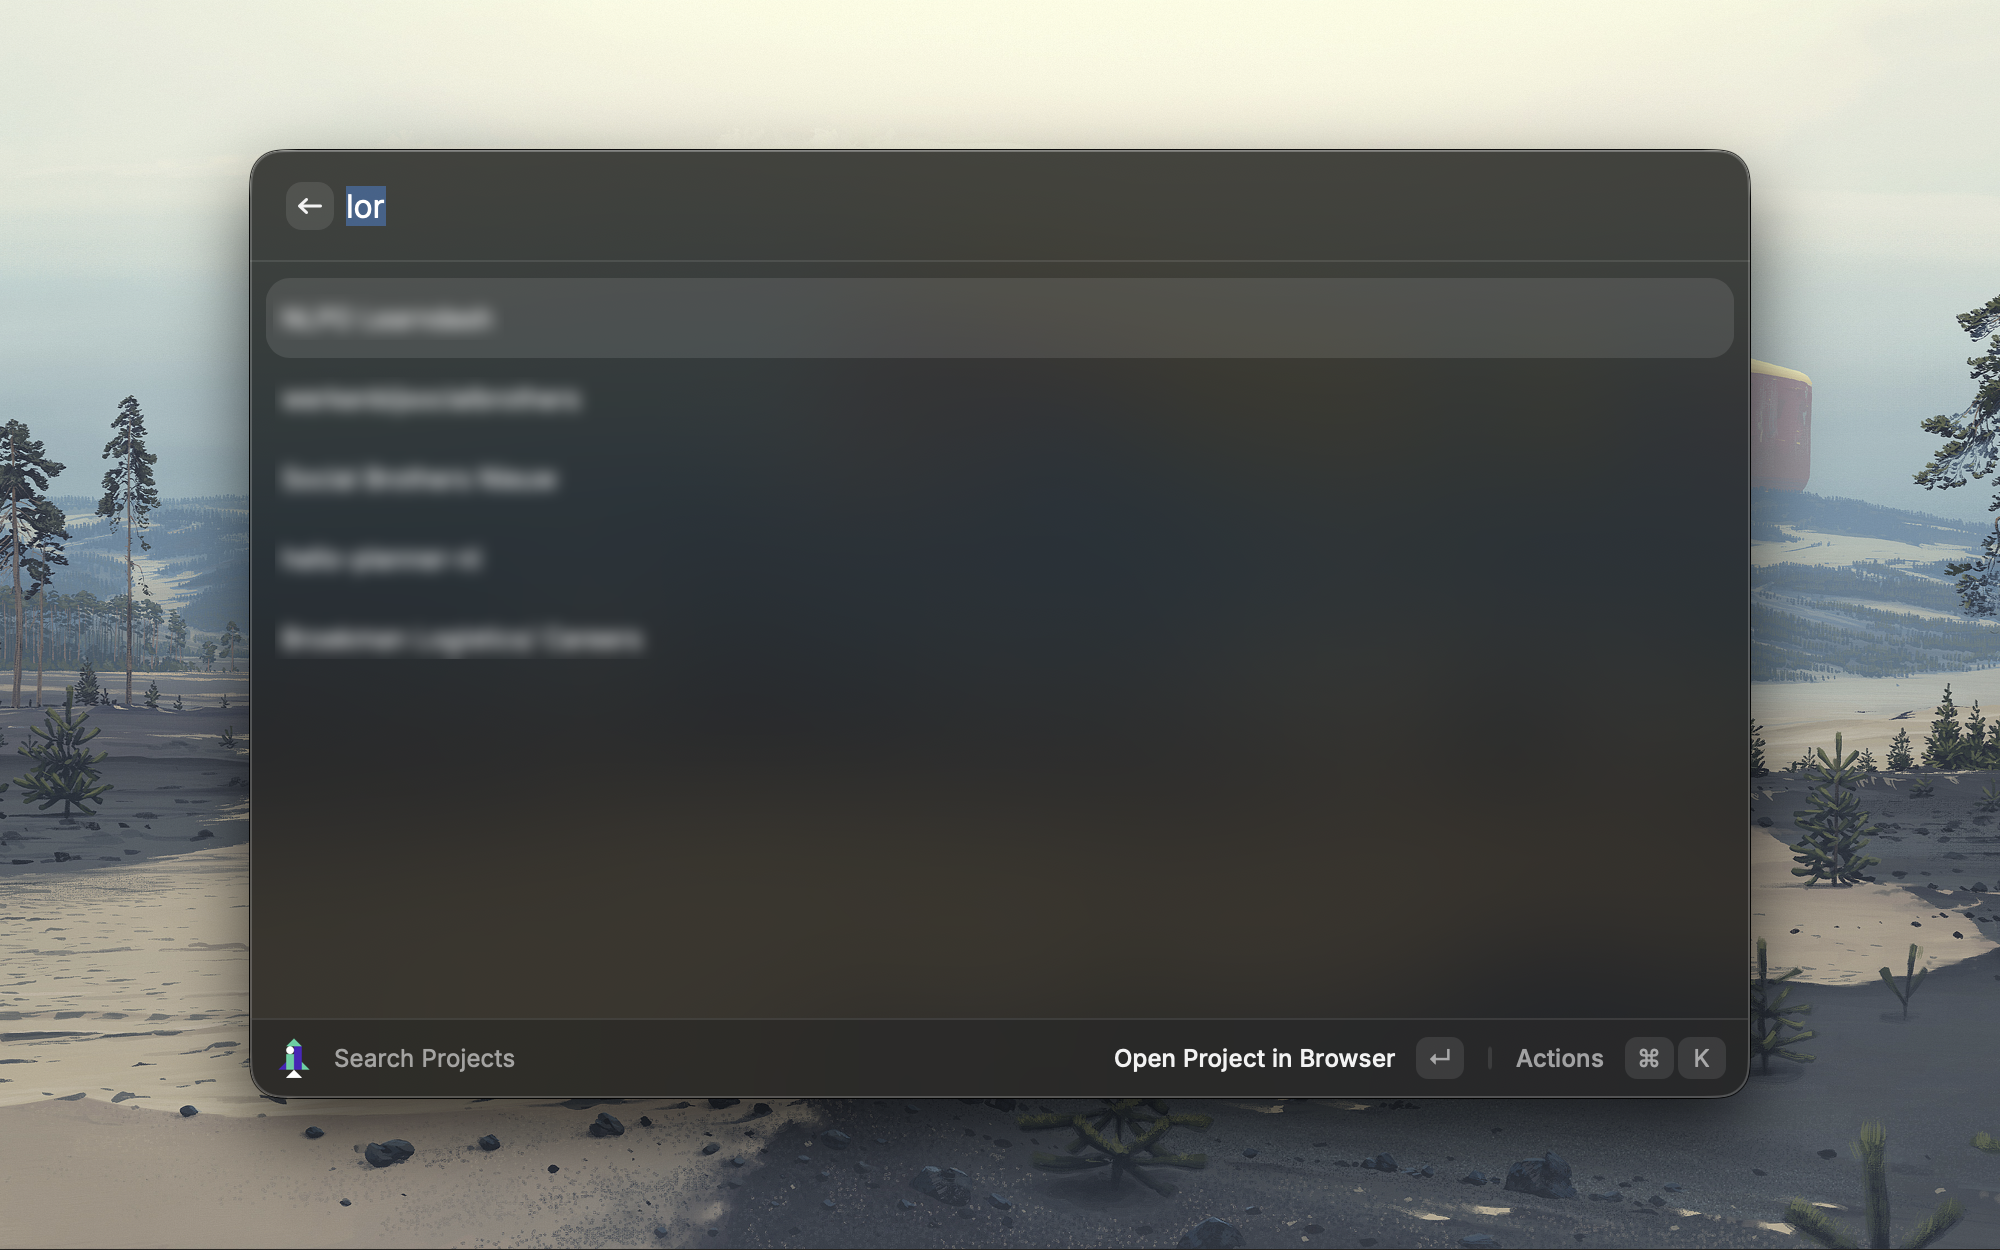
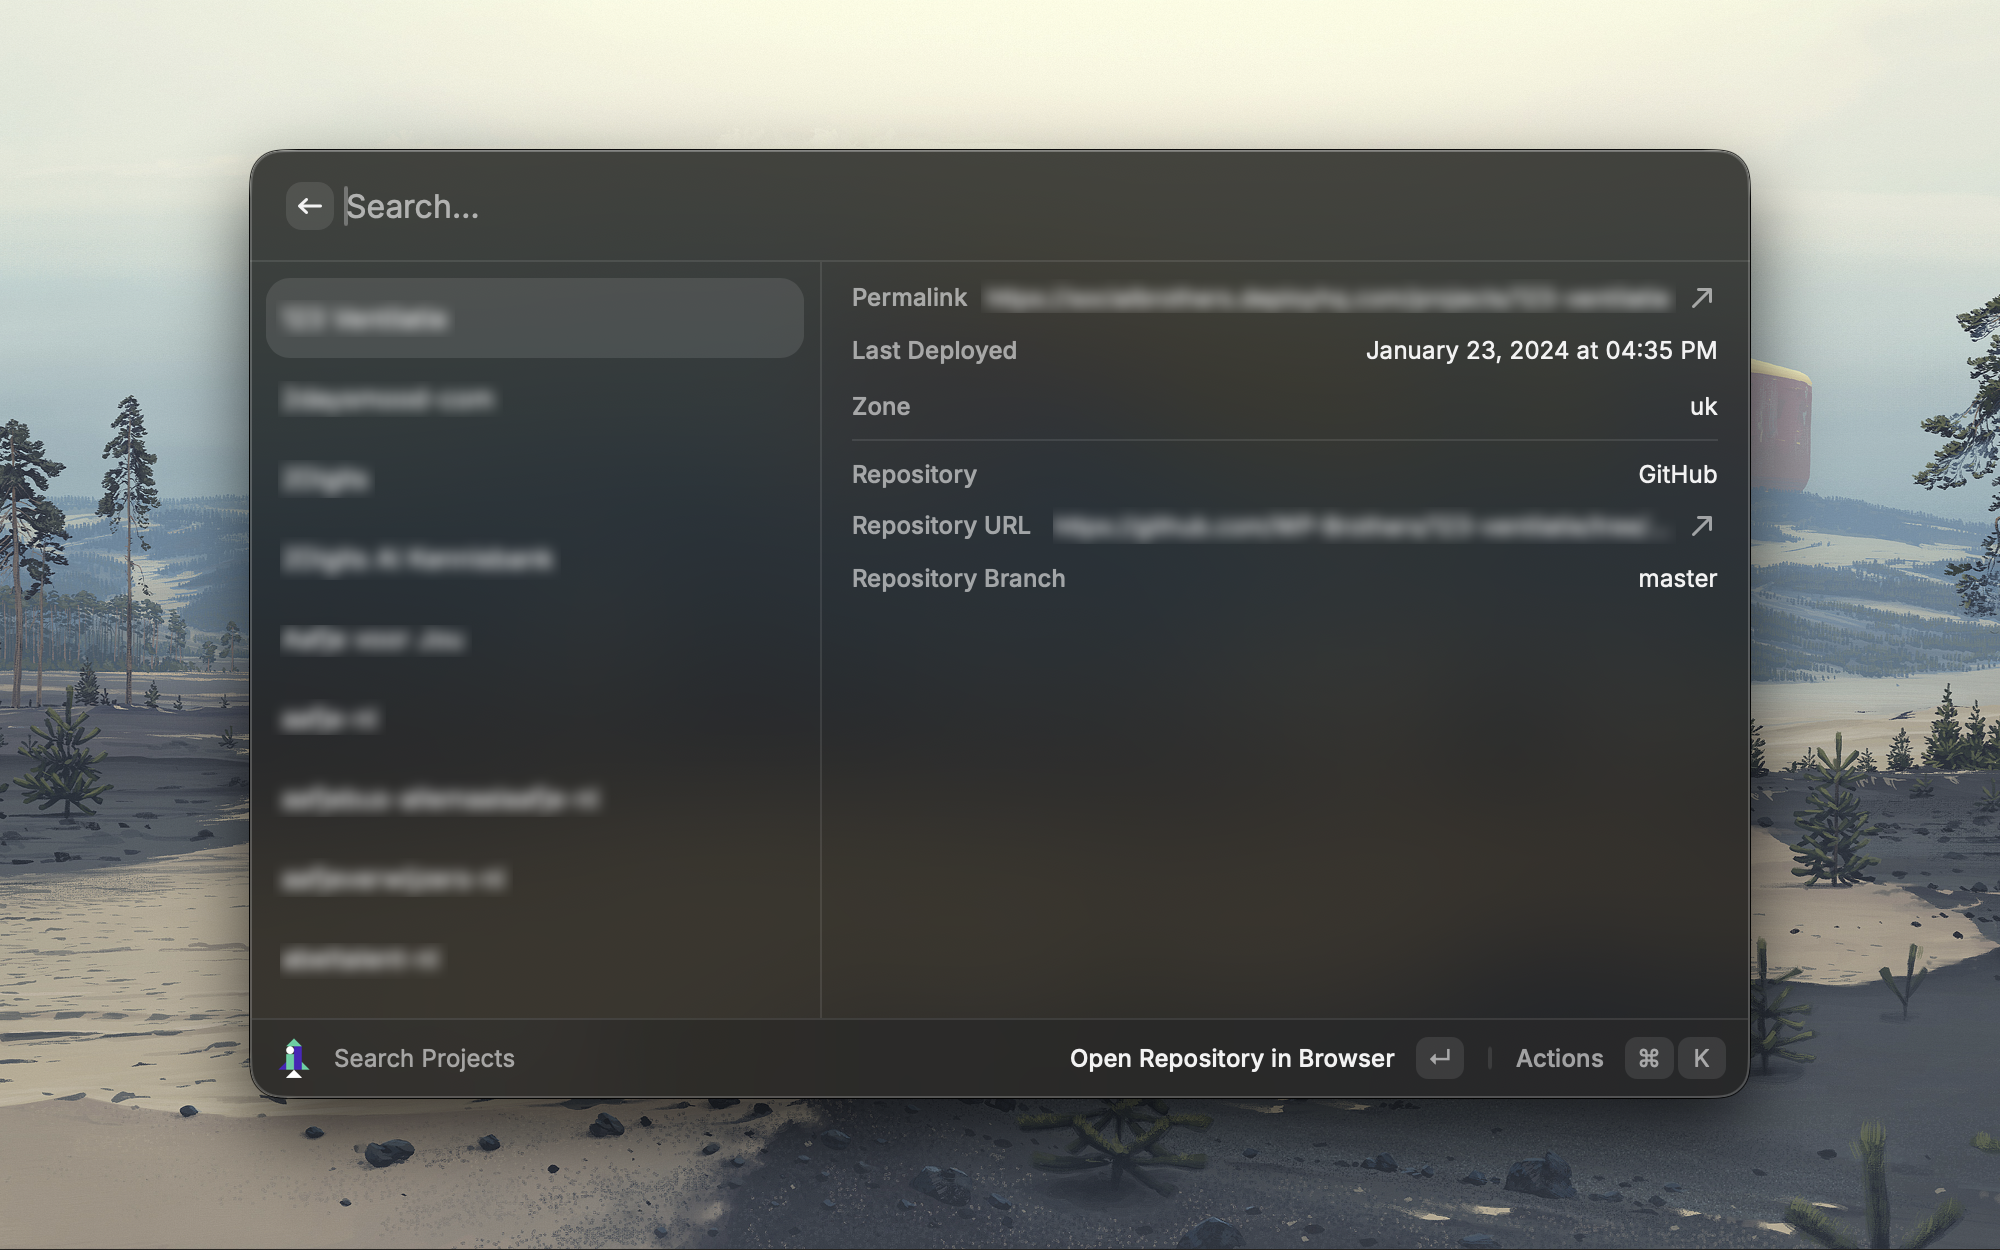
Update deployhq extension (#22319)
* Update deployhq extension

- Merge branch \'contributions/merge-1761063864981\'
- Pull contributions
- 📝 Update changelog and readme
- ✨ Add project data to list item when selected
- 🐛 Add necessary keys to actions
- 🐛 Actually make the defaultAction preference do something
- 🔥 Remove unused logPath preference
- Initial commit

* 🍱 Udate metadata screencap and icon

* Update CHANGELOG.md and optimise images

---------

diff --git a/extensions/deployhq/src/searchProjects.tsx b/extensions/deployhq/src/searchProjects.tsx
@@ -46,35 +46,72 @@ export default function Command() {
   }, []);
 
   return (
-    <List throttle={true} isLoading={isLoading}>
+    <List throttle={true} isLoading={isLoading} isShowingDetail={true}>
       {projects?.map((item) => (
         <List.Item
           key={item.identifier}
           title={item.name}
-          accessories={[
-            {
-              text: item.last_deployed_at
-                ? `Last Deployed: ${new Date(item.last_deployed_at).toLocaleDateString()}`
-                : "Never Deployed",
-            },
-          ]}
           actions={projectActions(item, preferences)}
+          detail={
+            <List.Item.Detail
+              metadata={
+                <List.Item.Detail.Metadata>
+                  <List.Item.Detail.Metadata.Link
+                    title="Permalink"
+                    target={`https://${preferences.deployHQAccountName}.deployhq.com/projects/${item.permalink}`}
+                    text={`https://${preferences.deployHQAccountName}.deployhq.com/projects/${item.permalink}`}
+                  />
+                  <List.Item.Detail.Metadata.Label
+                    title="Last Deployed"
+                    text={
+                      item.last_deployed_at
+                        ? new Date(item.last_deployed_at).toLocaleDateString(undefined, {
+                            year: "numeric",
+                            month: "long",
+                            day: "numeric",
+                            hour: "2-digit",
+                            minute: "2-digit",
+                          })
+                        : "-"
+                    }
+                  />
+                  <List.Item.Detail.Metadata.Label title="Zone" text={item.zone ?? "-"} />
+
+                  {item.repository?.hosting_service && (
+                    <>
+                      <List.Item.Detail.Metadata.Separator></List.Item.Detail.Metadata.Separator>
+                      <List.Item.Detail.Metadata.Label title="Repository" text={item.repository.hosting_service.name} />
+                      <List.Item.Detail.Metadata.Link
+                        title="Repository URL"
+                        target={item.repository.hosting_service.tree_url}
+                        text={item.repository.hosting_service.tree_url}
+                      />
+                      <List.Item.Detail.Metadata.Label title="Repository Branch" text={item.repository.branch} />
+                    </>
+                  )}
+                </List.Item.Detail.Metadata>
+              }
+            />
+          }
         />
       ))}
     </List>
   );
 }
 
-// Memoize project actions to prevent unnecessary re-renders
 const projectActions = (item: Project, preferences: Preferences) => {
   const projectUrl = `https://${preferences.deployHQAccountName}.deployhq.com/projects/${item.permalink}`;
+  const projectAction = <Action.OpenInBrowser title="Open Project in Browser" url={projectUrl} key="project-action" />;
 
-  return (
-    <ActionPanel>
-      <Action.OpenInBrowser title="Open Project in Browser" url={projectUrl} />
-      {item.repository?.hosting_service?.tree_url && (
-        <Action.OpenInBrowser title="Open Repository in Browser" url={item.repository.hosting_service.tree_url} />
-      )}
-    </ActionPanel>
+  const repositoryUrl = item.repository?.hosting_service?.tree_url;
+  const repositoryAction = repositoryUrl && (
+    <Action.OpenInBrowser title="Open Repository in Browser" url={repositoryUrl} key="repository-action" />
   );
+
+  const actions =
+    preferences.defaultAction === "visit-project"
+      ? [projectAction, repositoryAction].filter(Boolean)
+      : [repositoryAction, projectAction].filter(Boolean);
+
+  return <ActionPanel>{actions}</ActionPanel>;
 };

diff --git a/extensions/deployhq/CHANGELOG.md b/extensions/deployhq/CHANGELOG.md
@@ -1,6 +1,14 @@
 # DeployHQ Changelog
 
+## [DefaultAction fix & Project data in view ] - 2025-10-28
+
+- ✨ Add project data to list item when selected
+- 🐛 Add necessary keys to actions
+- 🐛 Actually make the defaultAction preference do something
+- 🔥 Remove unused logPath preference
+
 ## [Show Last Deployment Date in Project List] - 2025-10-14
+
 - Display the last deployed date for each project in the search results list.
 
 ## [Initial Version] - 2025-10-13

diff --git a/extensions/deployhq/README.md b/extensions/deployhq/README.md
@@ -16,7 +16,7 @@ This name is used as the subdomain when logged in with your account, e.g. https:
 Your own DeployHQ username.  
 This is usually the e-mail address you use to log in.
 
-**defaultAction** _(currently non-functional)_  
+**defaultAction**
 The default action to perform when selecting an item in the project list.
 
 ## Commands
